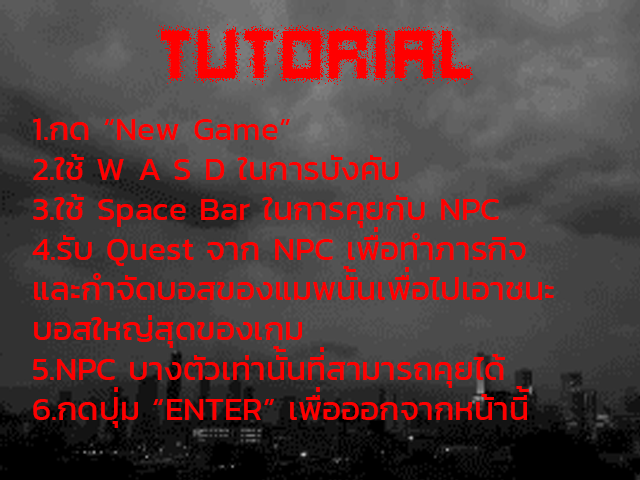
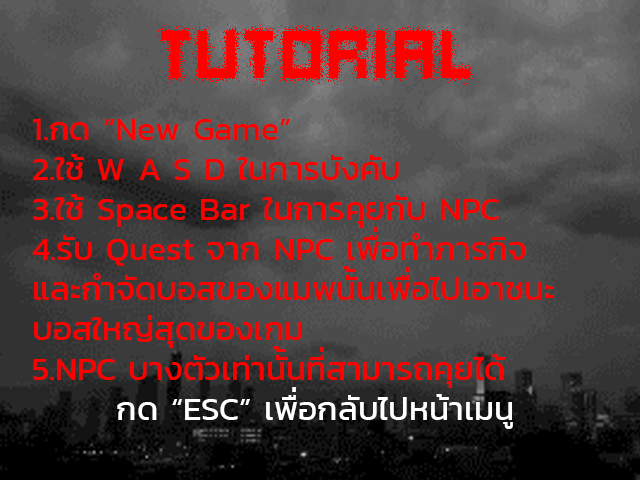
Update Code and Fix Bug

Changed region(s): [[0.0312, 0.8125, 0.8438, 0.9062]]

diff --git a/src/com/alanwalker/state/BattleState.java b/src/com/alanwalker/state/BattleState.java
@@ -1,12 +1,8 @@
 package com.alanwalker.state;
 
-import java.io.FileInputStream;
 import java.io.FileNotFoundException;
 import java.io.FileOutputStream;
 import java.io.IOException;
-import java.io.InputStream;
-import java.io.OutputStream;
-import java.util.Properties;
 import com.alanwalker.entities.Actor;
 import com.alanwalker.entities.Monster;
 import com.alanwalker.main.AlanWalker;
@@ -33,15 +29,14 @@ import com.badlogic.gdx.utils.Timer.Task;
 public class BattleState extends AbstractState {
 
 	private AbstractState screen;
-	private int oldX, oldY;
 	private Monster monster;
 	private Actor player;
 	private SpriteBatch sb;
-	private Label monsterHpLabel, playerHpLabel, playerTurnLabel;
-	private Label.LabelStyle monsterHPStyle, playerTurnStyle;
+	private Label monsterHpLabel, playerHpLabel, playerTurnLabel, playerWinLabel;
+	private Label.LabelStyle monsterHPStyle, playerTurnStyle, playerWinStyle;
 	private Texture alanHud, alanCharacter, bgStage, monsterHud, alanHudTop;
 	private boolean youTurn = true, monTurn;
-	private float delayTime = 0, delayTimeAttack = 0;
+	private float delayTime = 0, delayTimeAttack = 0, delayYouWin = 0;
 	private Sound sound;
 
 	// Button in State
@@ -68,6 +63,7 @@ public class BattleState extends AbstractState {
 	private Stage stage;
 	private Label playerLevelLabel, playerExpLabel;
 	private Label.LabelStyle playerHPStyle, playerLevelStyle, playerExpStyle;
+	private boolean mapCheck = false;
 
 	public BattleState(AlanWalker aw, String monster, float oldX, float oldY) {
 		super(aw);
@@ -75,7 +71,7 @@ public class BattleState extends AbstractState {
 		this.monsterName = monster;
 		this.player = new Actor();
 		sb = new SpriteBatch();
-		
+
 		// Load Sound
 		sound = (Sound) Gdx.audio.newSound(Gdx.files.internal("resource/sounds/BattleState.mp3"));
 		long id;
@@ -139,9 +135,17 @@ public class BattleState extends AbstractState {
 		playerLevelStyle.font = skin.getFont("default");
 		playerExpStyle = new Label.LabelStyle();
 		playerExpStyle.font = skin.getFont("default");
+		playerWinStyle = new Label.LabelStyle();
+		playerWinStyle.font = skin.getFont("default");
 
 		stage = new Stage();
 		Gdx.input.setInputProcessor(stage);// Make the stage consume events
+
+		// Show Player Win
+		playerWinLabel = new Label("", playerWinStyle);
+		playerWinLabel.setBounds(Gdx.graphics.getWidth() / 2.5f, Gdx.graphics.getHeight() / 2, 100, 100);
+		playerWinLabel.setColor(Color.WHITE);
+		playerWinLabel.setFontScale(2f, 2f);
 
 		attackBtn = new TextButton("", attackBtnStyle); // Use the initialized skin
 		attackBtn.setPosition(Gdx.graphics.getWidth() / 45, Gdx.graphics.getHeight() / 7);
@@ -159,7 +163,15 @@ public class BattleState extends AbstractState {
 					e.printStackTrace();
 				}
 				if (monsterHp <= 0) {
+					delayYouWin = 0;
 					playerExp += monsterExp;
+
+					try {
+						loadPlayer.getProp().setProperty("exp", Integer.toString(playerExp));
+						loadPlayer.getProp().store(new FileOutputStream("saves/save.properties"), null);
+					} catch (IOException e1) {
+						e1.printStackTrace();
+					}
 
 					// Kill BossMap Complete
 					if (monster == "JungleBoss") {
@@ -223,17 +235,6 @@ public class BattleState extends AbstractState {
 					}
 					// Save Amount Monster Kill in Quest (END)
 
-					// Come Back In Present Map
-					if (loadPlayer.getProp().getProperty("mapName").equals("JungleState")) {
-						aw.setScreen(new JungleState(aw, positionPlayerX, positionPlayerY));
-					} else if (loadPlayer.getProp().getProperty("mapName").equals("JungleToCaveState")) {
-						aw.setScreen(new JungleToCaveState(aw, positionPlayerX, positionPlayerY));
-					} else if (loadPlayer.getProp().getProperty("mapName").equals("CaveState")) {
-						aw.setScreen(new CaveState(aw, positionPlayerX, positionPlayerY));
-					} else if (loadPlayer.getProp().getProperty("mapName").equals("BossMapState")) {
-						aw.setScreen(new BossMapState(aw, positionPlayerX, positionPlayerY));
-					}
-					// Come Back In Present Map (END)
 				}
 				youTurn = false;
 				monTurn = true;
@@ -245,6 +246,7 @@ public class BattleState extends AbstractState {
 		runBtn.addListener(new ClickListener() {
 			@Override
 			public void clicked(InputEvent event, float x, float y) {
+				sound.stop();
 				if (loadPlayer.getProp().getProperty("mapName").equals("JungleState")) {
 					aw.setScreen(new JungleState(aw, positionPlayerX, positionPlayerY));
 				} else if (loadPlayer.getProp().getProperty("mapName").equals("JungleToCaveState")) {
@@ -301,6 +303,7 @@ public class BattleState extends AbstractState {
 		stage.addActor(playerLevelLabel);
 		stage.addActor(playerExpLabel);
 		stage.addActor(playerTurnLabel);
+		stage.addActor(playerWinLabel);
 	}
 
 	@Override
@@ -343,6 +346,31 @@ public class BattleState extends AbstractState {
 
 		// Delay Time Label and Delay Time to Attack
 		delayTimeAttack += delta;
+		delayYouWin += delta;
+
+		if ((delayYouWin >= 0 && delayYouWin < 6) && monsterHp <= 0) {
+			playerWinLabel.setText("Your Win.");
+			playerWinLabel.setVisible(true);
+			mapCheck = true;
+		} else {
+			playerWinLabel.setVisible(false);
+		}
+		
+		if(mapCheck && delayYouWin > 1) {
+			// Come Back In Present Map
+			if (loadPlayer.getProp().getProperty("mapName").equals("JungleState")) {
+				aw.setScreen(new JungleState(aw, positionPlayerX, positionPlayerY));
+			} else if (loadPlayer.getProp().getProperty("mapName").equals("JungleToCaveState")) {
+				aw.setScreen(new JungleToCaveState(aw, positionPlayerX, positionPlayerY));
+			} else if (loadPlayer.getProp().getProperty("mapName").equals("CaveState")) {
+				aw.setScreen(new CaveState(aw, positionPlayerX, positionPlayerY));
+			} else if (loadPlayer.getProp().getProperty("mapName").equals("BossMapState")) {
+				aw.setScreen(new BossMapState(aw, positionPlayerX, positionPlayerY));
+			}
+			// Come Back In Present Map (END)
+		}
+
+		System.out.println("DELAY YOU WIN : " + delayYouWin);
 
 		if (delayTime > 3) {
 			playerTurnLabel.setText("");

diff --git a/src/com/alanwalker/state/EndStoryState.java b/src/com/alanwalker/state/EndStoryState.java
@@ -25,7 +25,7 @@ public class EndStoryState extends AbstractState implements InputProcessor {
 	private String attack = Integer.toString((int) (Math.random() * 10));
 	private String playerHP = "100";
 	private String startX = "10.5";
-	private String startY = "0";
+	private String startY = "1";
 	private String exp = "0";
 	private String mapName = "VillageState";
 	
@@ -107,9 +107,9 @@ public class EndStoryState extends AbstractState implements InputProcessor {
 					end.getProp().setProperty("startY", startY);
 					end.getProp().setProperty("mapName", mapName);
 					end.getProp().setProperty("Quest1", "null");
-					end.getProp().setProperty("Quest1CountMonster", "null");
+					end.getProp().setProperty("Quest1CountMonster", "0");
 					end.getProp().setProperty("Quest2", "null");
-					end.getProp().setProperty("Quest2CountMonster", "null");
+					end.getProp().setProperty("Quest2CountMonster", "0");
 					end.getProp().setProperty("Boss", "null");
 					// save properties to project root folder
 					end.getProp().store(new FileOutputStream("saves/save.properties"), null);

diff --git a/src/com/alanwalker/util/LoadSave.java b/src/com/alanwalker/util/LoadSave.java
@@ -1,6 +1,5 @@
 package com.alanwalker.util;
 
-import java.io.File;
 import java.io.FileInputStream;
 import java.io.FileNotFoundException;
 import java.io.FileOutputStream;
@@ -16,7 +15,7 @@ public class LoadSave {
 	private String attack = Integer.toString((int) (Math.random() * 10));
 	private String playerHP = "100";
 	private String startX = "10.5";
-	private String startY = "0"; 
+	private String startY = "1"; 
 	private String exp = "0";
 	private String mapName = "VillageState";
 	
@@ -48,9 +47,9 @@ public class LoadSave {
 				prop.setProperty("startY", startY);
 				prop.setProperty("mapName", mapName);
 				prop.setProperty("Quest1", "null");
-				prop.setProperty("Quest1CountMonster", "null");
+				prop.setProperty("Quest1CountMonster", "0");
 				prop.setProperty("Quest2", "null");
-				prop.setProperty("Quest2CountMonster", "null");
+				prop.setProperty("Quest2CountMonster", "0");
 				prop.setProperty("Boss", "null");
 				// save properties to project root folder
 				prop.store(outputSave, null);

diff --git a/src/com/alanwalker/state/TutorialState.java b/src/com/alanwalker/state/TutorialState.java
@@ -68,7 +68,7 @@ public class TutorialState extends AbstractState implements InputProcessor{
 
 	@Override
 	public boolean keyDown(int keycode) {
-		if(keycode == Keys.ENTER) {
+		if(keycode == Keys.ESCAPE) {
 			aw.setScreen(new MenuState(aw));
 		}
 		return false;
